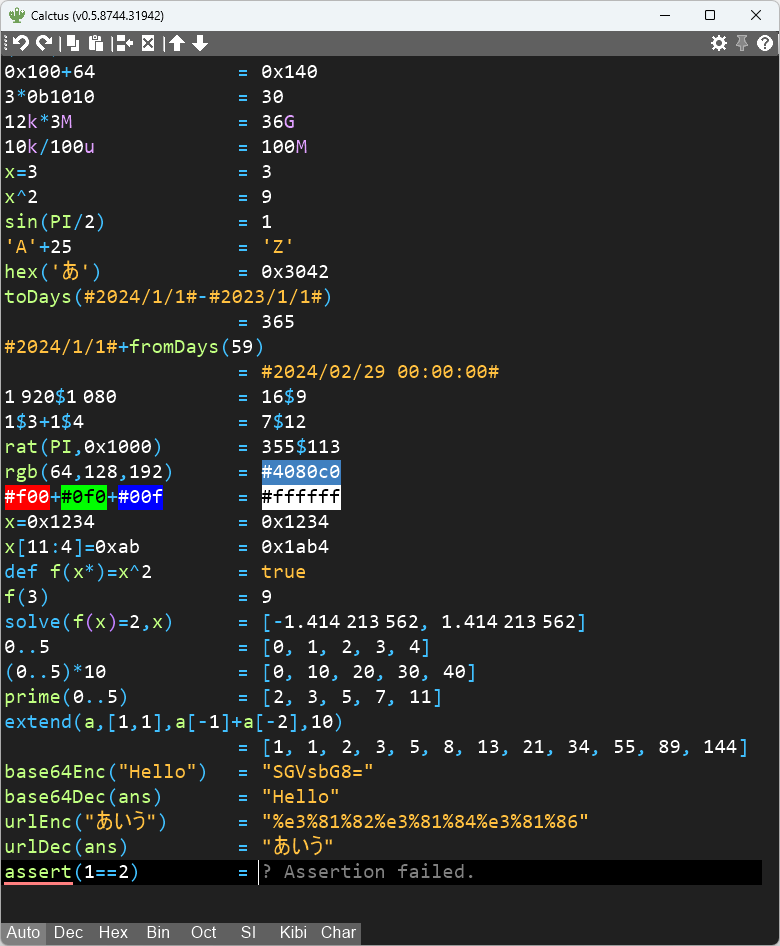
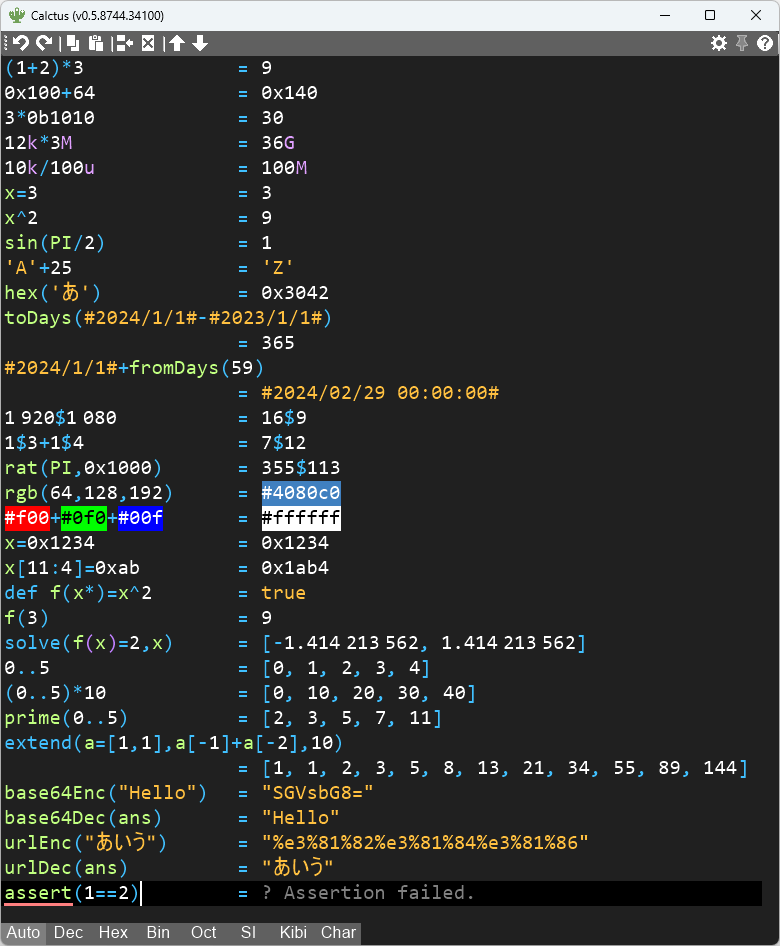
change syntax of extend()

diff --git a/Calctus/UI/Sheets/SheetView.cs b/Calctus/UI/Sheets/SheetView.cs
@@ -902,7 +902,7 @@ namespace Shapoco.Calctus.UI.Sheets {
             list.Add(new InputCandidate(BoolVal.FalseKeyword, BoolVal.FalseKeyword, "false value", false));
             list.Add(new InputCandidate("def", "def", "user function definition", false));
             list.Add(new InputCandidate("solve", "solve(expr,var,a,b)", "Solves the equation using Newton's method.", true));
-            list.Add(new InputCandidate("extend", "extend(array,seed,expr,count)", "Generate number sequence.", true));
+            list.Add(new InputCandidate("extend", "extend(var=seed,expr,count)", "Generate number sequence.", true));
             list.Add(new InputCandidate("plot", "plot(var,expr)", "Plots graph.", true));
             _inputCandidates = list.OrderBy(p => p.Id).ToArray();
             _recalcRequested = false;

diff --git a/Calctus/Model/Parsers/Parser.cs b/Calctus/Model/Parsers/Parser.cs
@@ -200,7 +200,7 @@ namespace Shapoco.Calctus.Model.Parsers {
         public Expr Extend(Token first) {
             Expect("(");
             Expect(TokenType.Word, out Token arrayName);
-            Expect(",");
+            Expect("=");
             var seed = Expr(false);
             Expect(",");
             var generator = Expr(false);

diff --git a/README.md b/README.md
@@ -207,7 +207,7 @@ The `extend` keyword can be used to generate a sequence of numbers using an recu
 The following example defines an array of two elements at the beginning and appends the sum of the last two elements as a new element ten times.
 
 ```c++
-extend(a, [1,1], a[-2]+a[-1], 10)
+extend(a=[1,1], a[-2]+a[-1], 10)
     // --> [1, 1, 2, 3, 5, 8, 13, 21, 34, 55, 89, 144]
 ```
 
